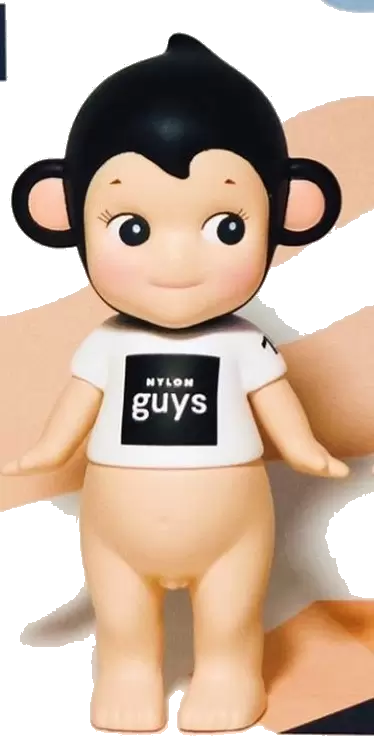
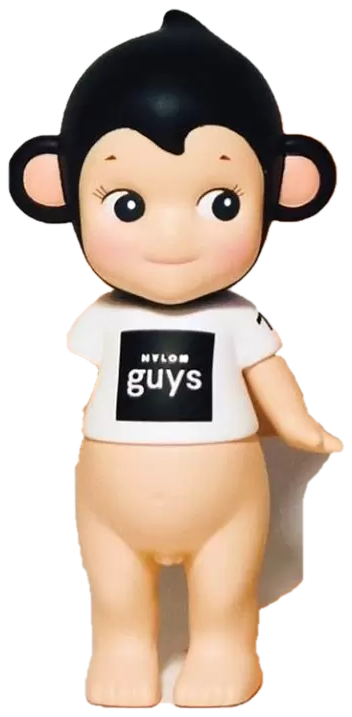
Refine NYLON rabbit/monkey alpha cutouts

diff --git a/stock.html b/stock.html
@@ -704,7 +704,7 @@
     <script src="./app/data/manual_overrides.js?v=20260404-movie-night-identity-art"></script>
     <script src="https://cdn.jsdelivr.net/npm/@supabase/supabase-js@2"></script>
     <script src="./app/supabase-config.js?v=20260328-session-check"></script>
-    <script src="./app/stock.js?v=20260404-movie-night-identity-art"></script>
+    <script src="./app/stock.js?v=20260412-nylon-alpha-fix"></script>
     <script>
       window.buildStockMessageDraftNow = function () {
         const textarea = document.querySelector("#stock-message-output");

diff --git a/index.html b/index.html
@@ -1670,6 +1670,6 @@
     <script src="./app/data/manual_overrides.js?v=20260412-nylon15-refresh"></script>
     <script src="https://cdn.jsdelivr.net/npm/@supabase/supabase-js@2"></script>
     <script src="./app/supabase-config.js?v=20260328-wishlist-copy-trim"></script>
-    <script src="./app/app.js?v=20260412-series-order-refresh" ></script>
+    <script src="./app/app.js?v=20260412-nylon-alpha-fix" ></script>
   </body>
 </html>

diff --git a/app/stock.js b/app/stock.js
@@ -28,7 +28,7 @@ const imageMap = window.SONNY_IMAGE_MAP || {};
 const manualOverrides = window.SONNY_MANUAL_OVERRIDES || {};
 const manualItemOverrides = manualOverrides.items || {};
 const rawCatalog = window.SONNIES_DATA || [];
-const IMAGE_CACHE_BUSTER = "20260316-robby-refresh";
+const IMAGE_CACHE_BUSTER = "20260412-nylon-alpha-fix";
 const trimmedShelfImageCache = new Map();
 
 function withImageVersion(path) {

diff --git a/app/app.js b/app/app.js
@@ -892,7 +892,7 @@ const analyticsState = {
   fallbackSessionId: "",
   seenKeys: new Set(),
 };
-const IMAGE_CACHE_BUSTER = "20260316-robby-refresh";
+const IMAGE_CACHE_BUSTER = "20260412-nylon-alpha-fix";
 const MANUAL_ASSET_CACHE_BUSTER = String(Date.now());
 const MAKER_BACKGROUNDS = [
   {
